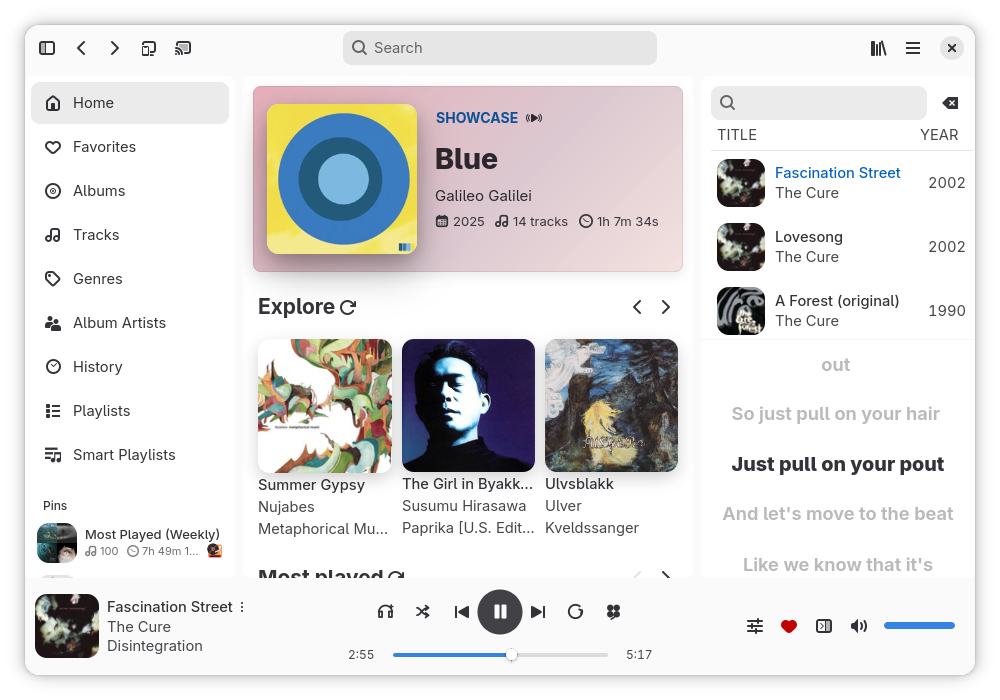
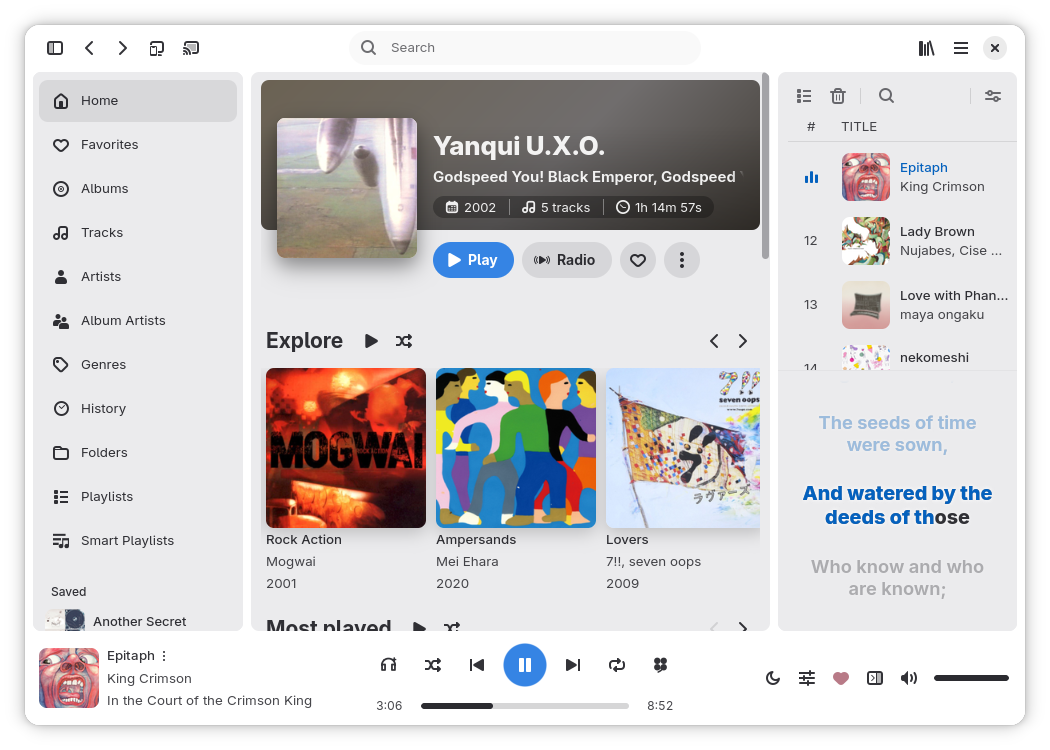
docs: update screenshots (#1423)

diff --git a/README.md b/README.md
@@ -90,14 +90,20 @@ rufin --headless --listen
 
 | | |
 |:---:|:---:|
-| ![Artist details](resources/screenshots/artist_detail.png) | ![Genres](resources/screenshots/genres.png) |
-| **Artist details** | **Genres** |
-| ![Smart playlists](resources/screenshots/smart_playlists.png) | ![Playback settings](resources/screenshots/playback_settings.png) |
-| **Smart playlists** | **Playback settings** |
-| ![Fullscreen player](resources/screenshots/fullscreen_player.png) | ![Visualizer settings](resources/screenshots/visualizer_settings.png) |
-| **Fullscreen player** | **Visualizer settings** |
-| ![Integrations](resources/screenshots/integrations.png) | ![Playlist settings](resources/screenshots/playlist_settings.png) |
-| **Integrations** | **Playlist settings** |
+| ![Home](resources/screenshots/Rufin.png) | ![Artist details](resources/screenshots/artist_detail.png) |
+| **Home** | **Artist details** |
+| ![Artists](resources/screenshots/artists.png) | ![Compact sidebar](resources/screenshots/compact_sidebar.png) |
+| **Artists** | **Compact sidebar** |
+| ![Fullscreen player](resources/screenshots/fullscreen_player.png) | ![Smart playlists](resources/screenshots/smart_playlists.png) |
+| **Fullscreen player** | **Smart playlists** |
+| ![Playlist settings](resources/screenshots/playlist_settings.png) | ![Metadata editor](resources/screenshots/edit_metadata.png) |
+| **Playlist settings** | **Metadata editor** |
+| ![Metadata lookup](resources/screenshots/edit_metadata_lookup.png) | ![Lyrics editor](resources/screenshots/edit_metadata_lyrics.png) |
+| **Metadata lookup** | **Lyrics editor** |
+| ![Equalizer](resources/screenshots/equalizer_settings.png) | ![Customize display](resources/screenshots/customize_display.png) |
+| **Equalizer** | **Customize display** |
+| ![Rearrangeable layout](resources/screenshots/reorder_sidebar.png) | ![Integrations](resources/screenshots/integrations.png) |
+| **Rearrangeable layout** | **Integrations** |
 
 # Installation
 
